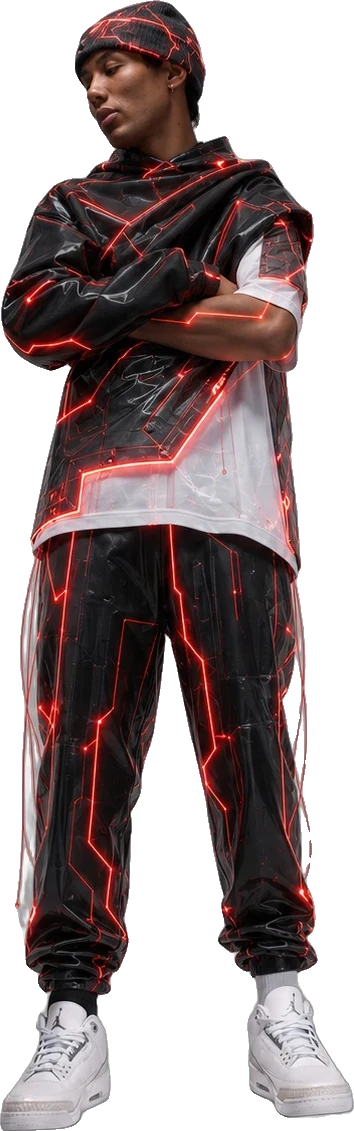
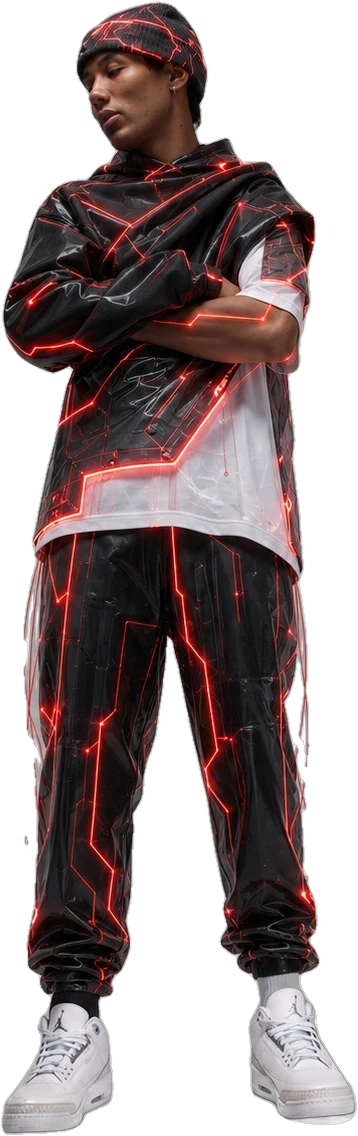
futuristic gallery: reubicar despues de PastDrop + reprocesar con BiRefNet
(1) Reubicacion en page.tsx:
    Antes: Collections -> FuturisticGallery -> Mission -> PastDrop
    Ahora: Collections -> Mission -> PastDrop -> FuturisticGallery
    El usuario queria que la galeria cayera DESPUES de la seccion DROPS
    (PastDrop), no entre Collections y Mission.

(2) Re-procesado de las 7 imagenes con mejor pipeline IA:
    - Modelo: birefnet-general-lite (state-of-the-art reducido en swin-
      tiny). Mejor que isnet en bordes finos + hilos colgantes.
    - Aislamiento por imagen: subprocess por imagen (ONNX Runtime tiene
      memory leak entre inferencias en CPU; reciclar proceso = fix
      bulletproof).
    - Resize a max 1400px lado largo antes del modelo (evita "bad
      allocation" del ORT y conserva detalle de los hilos).
    - Post-process: GaussianBlur(0.6) en alpha + autocontrast(0.5%) =
      bordes mas crujientes preservando alpha-medio de los hilos.
    - bbox crop para descartar transparencia perimetral.

(3) WebP optimizado (q90, alphaQuality 95, effort 6):
    4.86 MB PNG -> 0.80 MB WebP (-83%)

diff --git a/app/page.tsx b/app/page.tsx
@@ -38,9 +38,9 @@ export default function Page() {
         <Hero />
         <CloudBand />
         <Collections />
-        <FuturisticGallery />
         <Mission />
         <PastDrop />
+        <FuturisticGallery />
         <Anturax />
         <IdeaForm />
         <MeteoriteSection />

diff --git a/scripts/remove-bg-fashion.py b/scripts/remove-bg-fashion.py
@@ -1,20 +1,42 @@
 """
-remove-bg-fashion.py — corta el fondo blanco de las 7 imagenes de
-MODA Y ROPA FUTURISTA usando rembg (isnet-general-use) y las guarda
-con nombres limpios en public/assets/futuristic-fashion/.
+remove-bg-fashion.py — pipeline IA para cortar el fondo blanco de las 7
+fotos de MODA Y ROPA FUTURISTA con la mejor calidad disponible.
 
-Uso: py -3.11 scripts/remove-bg-fashion.py
+Estrategia:
+  1) Modelo: BiRefNet-General-Lite (state-of-the-art reducido). En CPU
+     con ONNX Runtime, el SOTA full pide ~2GB y muere en la 2da imagen
+     con "bad allocation". La variante lite usa swin-tiny y cabe bien.
+  2) Aislamiento por imagen: el ONNX Runtime acumula buffers entre
+     inferencias y la 2da llamada en el mismo proceso explota. La unica
+     fix bulletproof es hacer SUBPROCESS por imagen — cada proceso se
+     muere y libera RAM por completo. ~1.5s extra por img de overhead.
+  3) Resize al modelo a max 1400px lado largo (conserva detalle de los
+     hilos rojos finos sin que la inferencia tome demasiada RAM).
+  4) Post-process (PIL):
+       a. GaussianBlur(0.6) sobre alpha → suaviza pixelacion del edge
+       b. Autocontrast del alpha → bordes mas crujientes
+       c. bbox crop → descarta filas/columnas totalmente transparentes
+  5) Output PNG en public/assets/futuristic-fashion/.
+
+Uso:
+  Modo batch:  py -3.11 scripts/remove-bg-fashion.py
+  Modo single: py -3.11 scripts/remove-bg-fashion.py --single <src> <out>
 """
+import gc
+import subprocess
+import sys
 from pathlib import Path
 from rembg import remove, new_session
-from PIL import Image
+from PIL import Image, ImageFilter, ImageOps
 
 ROOT = Path(__file__).resolve().parent.parent
 SRC_DIR = ROOT / "MODA Y ROPA FUTURISTA"
 OUT_DIR = ROOT / "public" / "assets" / "futuristic-fashion"
 OUT_DIR.mkdir(parents=True, exist_ok=True)
 
-# mapeo manual (revisado a ojo): genero + indice
+MAX_SIDE = 1400
+
+# Mapeo manual revisado a ojo (2 mujeres + 5 hombres).
 MAPPING = {
     "WhatsApp Image 2026-05-16 at 9.12.41 PM (1).jpeg": "man-01.png",
     "WhatsApp Image 2026-05-16 at 9.12.41 PM (2).jpeg": "woman-01.png",
@@ -25,26 +47,74 @@ MAPPING = {
     "WhatsApp Image 2026-05-16 at 9.12.42 PM.jpeg":     "man-05.png",
 }
 
+MODEL_PREFS = ["birefnet-general-lite", "u2net_human_seg", "isnet-general-use"]
 
-def main() -> None:
-    session = new_session("isnet-general-use")
+
+def pick_model():
+    for name in MODEL_PREFS:
+        try:
+            sess = new_session(name)
+            print(f"[model] usando {name}", flush=True)
+            return sess
+        except Exception as exc:  # pragma: no cover
+            print(f"[model] {name} no disponible: {exc}", flush=True)
+    raise RuntimeError("ningun modelo de rembg pudo inicializarse")
+
+
+def process_single(src_path: Path, out_path: Path) -> None:
+    """Procesa UNA imagen. Pensado para correr en un subprocess aislado."""
+    session = pick_model()
+
+    img = Image.open(src_path).convert("RGBA")
+    if max(img.size) > MAX_SIDE:
+        scale = MAX_SIDE / max(img.size)
+        new_size = (int(img.size[0] * scale), int(img.size[1] * scale))
+        img = img.resize(new_size, Image.LANCZOS)
+
+    # BiRefNet con post_process_mask: limpia speckles + rellena agujeros.
+    cut = remove(img, session=session, post_process_mask=True)
+
+    # Alpha-only post-process (no toca RGB):
+    #   GaussianBlur(0.6) → suaviza stair-step del edge
+    #   Autocontrast(cutoff 0.5%) → polariza los pixels gris-medio → edge
+    #   mas crujiente sin perder los hilos finos (que tienen alpha medio).
+    r, g, b, a = cut.split()
+    a = a.filter(ImageFilter.GaussianBlur(radius=0.6))
+    a = ImageOps.autocontrast(a, cutoff=(0.5, 0.5))
+    cut = Image.merge("RGBA", (r, g, b, a))
+
+    bbox = cut.getbbox()
+    if bbox:
+        cut = cut.crop(bbox)
+
+    cut.save(out_path, "PNG", optimize=True)
+    kb = out_path.stat().st_size // 1024
+    print(f"  -> {out_path.name}  ({kb} KB)", flush=True)
+
+
+def main_batch() -> None:
+    """Por cada imagen, lanza un subprocess separado del mismo script con
+    --single. ONNX Runtime acumula RAM entre inferencias en el mismo
+    proceso; reciclar el proceso es la unica fix robusta sin instalar
+    onnxruntime-gpu o cambiar a otro inference engine."""
+    self_path = Path(__file__).resolve()
     for src_name, out_name in MAPPING.items():
         src = SRC_DIR / src_name
         out = OUT_DIR / out_name
         if not src.exists():
             print(f"[skip] missing source: {src_name}")
             continue
-        img = Image.open(src).convert("RGBA")
-        cut = remove(img, session=session, post_process_mask=True)
-        # Recortar al bounding box no-transparente para que la imagen
-        # quede ajustada (sin franjas anchas de blanco/transparencia).
-        bbox = cut.getbbox()
-        if bbox:
-            cut = cut.crop(bbox)
-        cut.save(out, "PNG", optimize=True)
-        kb = out.stat().st_size // 1024
-        print(f"{src_name}  ->  {out_name}  ({kb} KB)")
+        print(f"[proc] {src_name}", flush=True)
+        rc = subprocess.call(
+            [sys.executable, str(self_path), "--single", str(src), str(out)]
+        )
+        if rc != 0:
+            print(f"[fail] exit code {rc} para {src_name}", flush=True)
 
 
 if __name__ == "__main__":
-    main()
+    if len(sys.argv) >= 4 and sys.argv[1] == "--single":
+        process_single(Path(sys.argv[2]), Path(sys.argv[3]))
+    else:
+        main_batch()
+    gc.collect()
